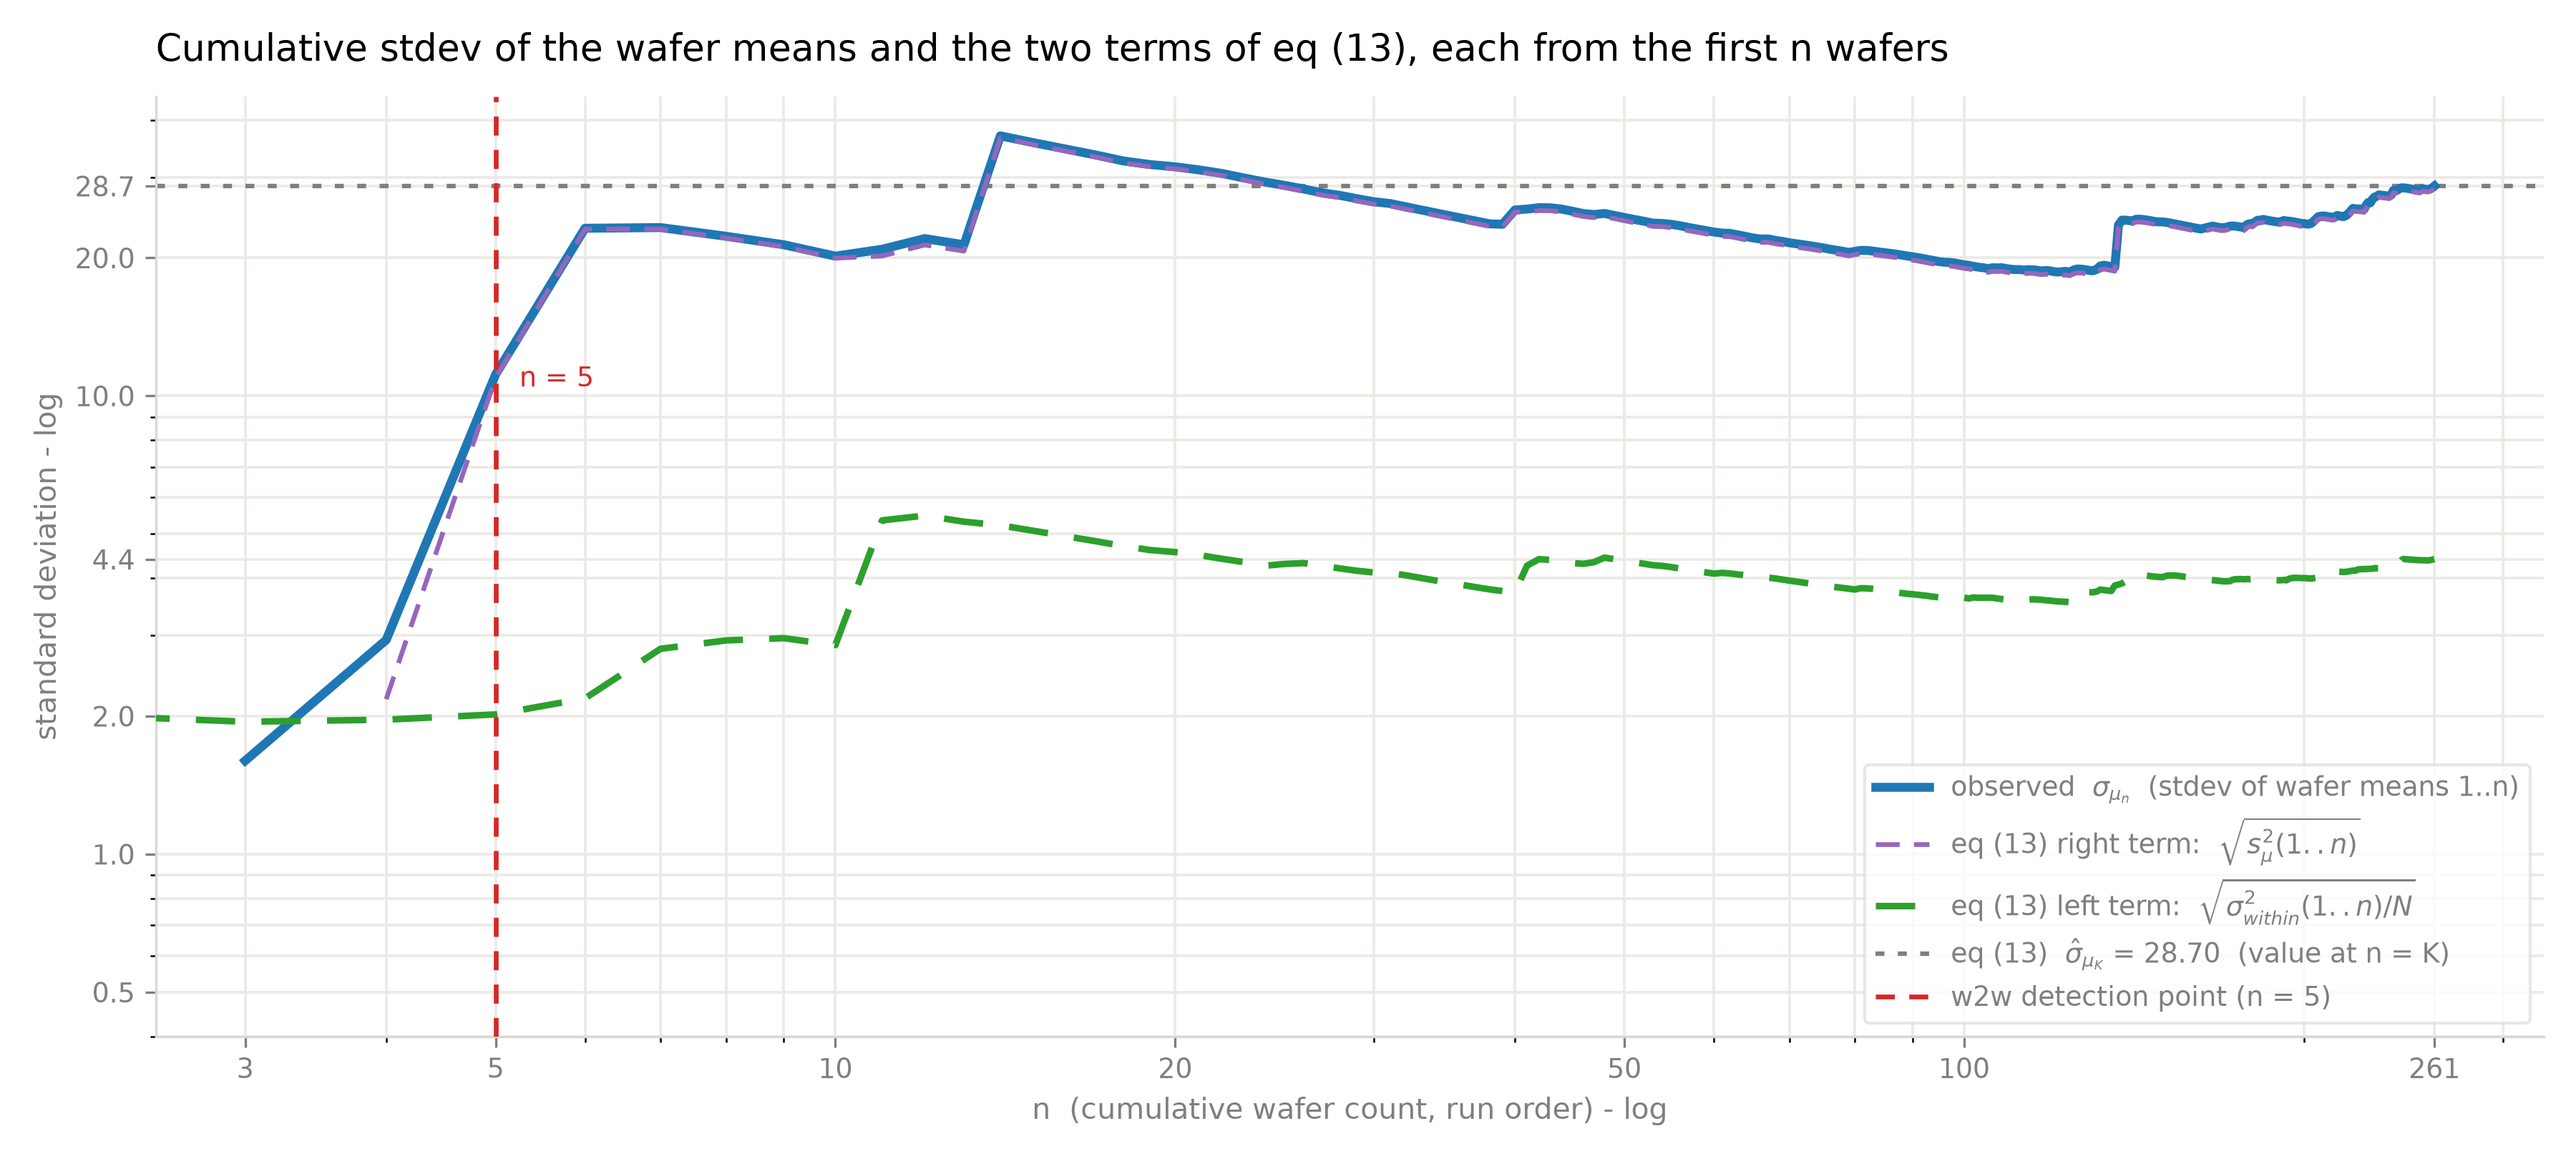
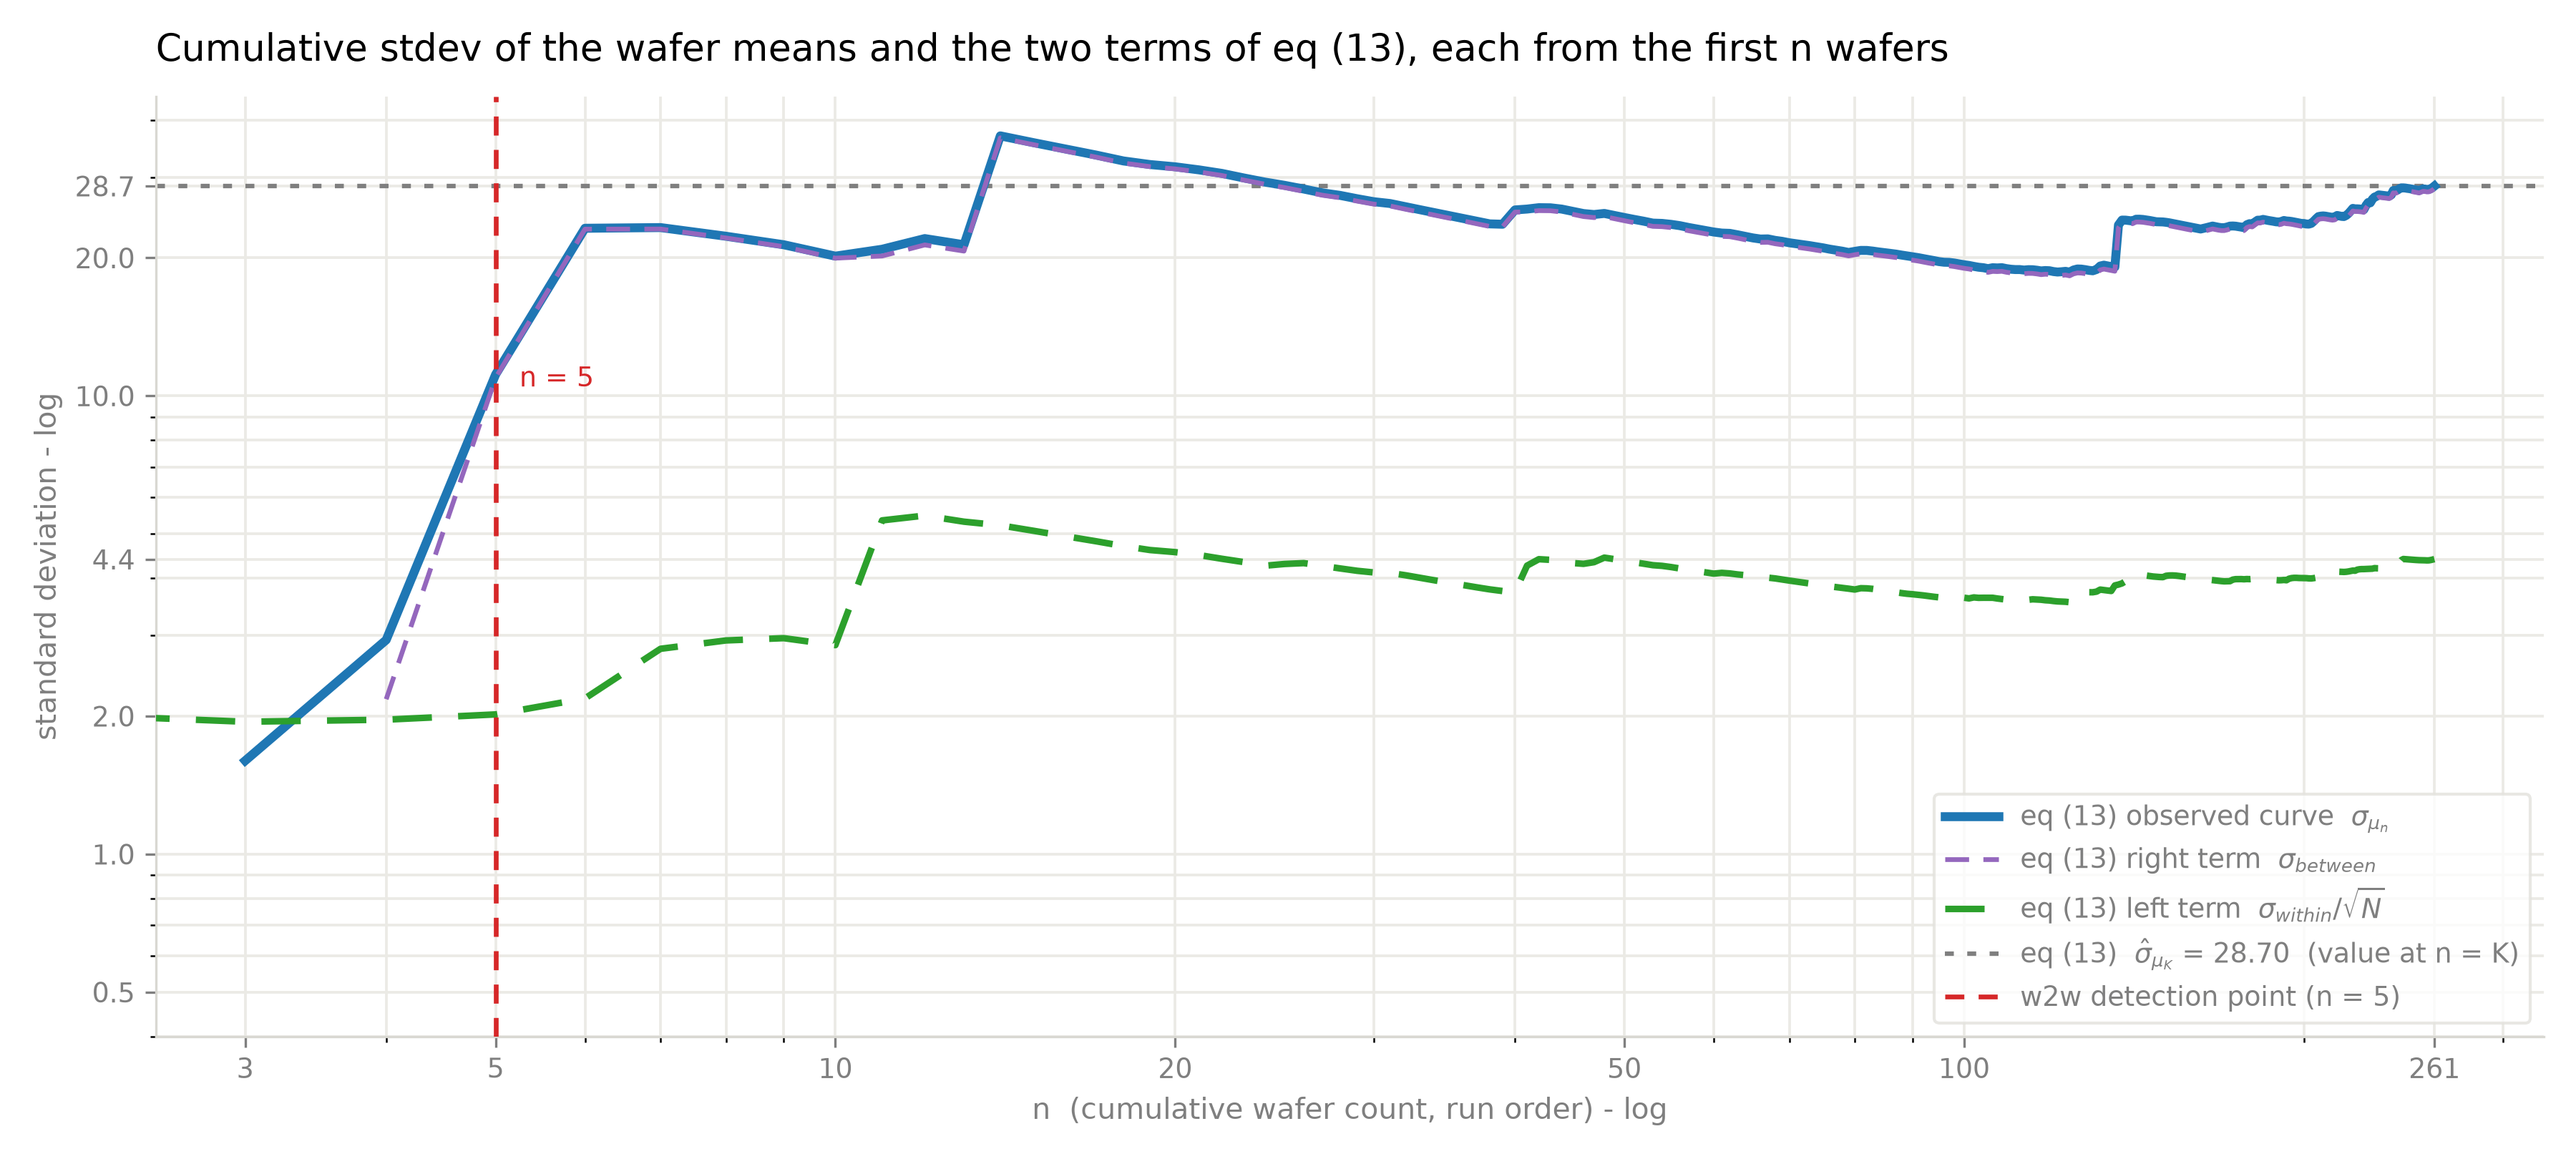
Label the Fig 2 curves with the equation (13) terms
Name each trace by the term it draws - sigma_mu_n, sigma_between and
sigma_within over root N - so the legend reads like the section 4.2 list.

Claude-Session: https://claude.ai/code/session_01WQDM9QvCLp8khNXC3e7tfA

Changed region(s): [[0.7156, 0.6481, 0.9644, 0.8642]]

diff --git a/EDA/Variability/WiW-W2W/wiw_w2w_anova.py b/EDA/Variability/WiW-W2W/wiw_w2w_anova.py
@@ -21,7 +21,7 @@ Changelog:
 """
 
 __author__ = 'yRocket'
-__version__ = "0.13.2.2026.9.21"
+__version__ = "0.13.3.2026.9.22"
 
 import argparse
 import pathlib
@@ -339,11 +339,11 @@ class WaferMeasurements:
         font_size = self._font_size()
         figure, axes = plt.subplots(figsize=FIGSIZE)
         axes.plot(self.order, observed, color=COLOR_OBSERVED, lw=3.0, zorder=4,
-                  label=r"observed  $\sigma_{\mu_n}$  (stdev of wafer means 1..n)")
+                  label=r"eq (13) observed curve  $\sigma_{\mu_n}$")
         axes.plot(self.order, terms['right_term'], color=COLOR_RIGHT_TERM, lw=1.6, ls=(0, (5, 3)), zorder=6,
-                  label=r"eq (13) right term:  $\sqrt{s_\mu^2(1..n)}$")
+                  label=r"eq (13) right term  $\sigma_{between}$")
         axes.plot(self.order, left_term, color=COLOR_LEFT_TERM, lw=2.2, ls=(0, (6, 4)), zorder=5,
-                  label=r"eq (13) left term:  $\sqrt{\sigma_{within}^2(1..n)/N}$")
+                  label=r"eq (13) left term  $\sigma_{within}/\sqrt{N}$")
         axes.axhline(observed[-1], color=COLOR_INK, lw=1.5, ls=(0, (2, 3)), zorder=2,
                      label=r"eq (13)  $\hat{\sigma}_{\mu_K}$ = %.2f  (value at n = K)" % observed[-1])
         axes.axvline(detection, color=COLOR_MARK, lw=1.6, ls=(0, (4, 3)), zorder=7,
